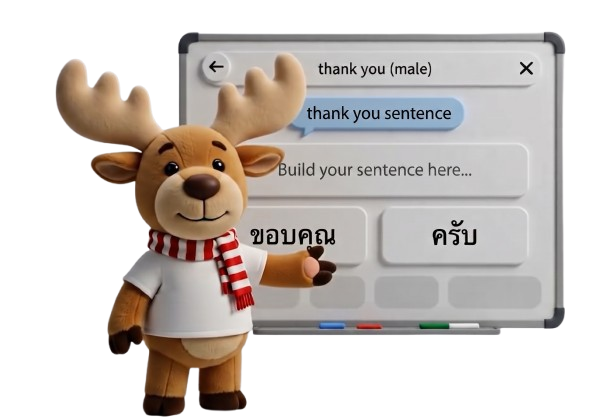
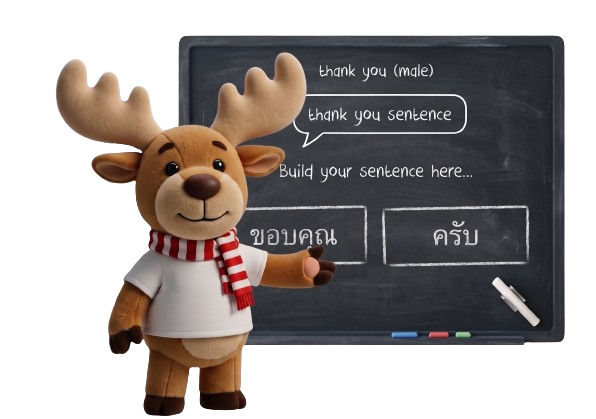
mise à jour des images de /learn niveau

diff --git a/app/components/LessonPathMap.tsx b/app/components/LessonPathMap.tsx
@@ -192,10 +192,10 @@ export function LessonPathMap({
                 <>
                   {/* Desktop Image (pointing INWARDS to avoid overflow) */}
                   <div className={`hidden lg:block absolute top-1/2 -translate-y-1/2 w-72 xl:w-80 z-0 transition-all duration-500 ease-out 
-                    ${(activeMobileLevel === levelIndex || modalLevel === levelIndex) && isAccessible ? 'opacity-100 translate-x-0' : 'opacity-0 pointer-events-none'}
+                    ${activeMobileLevel === levelIndex && isAccessible ? 'opacity-100 translate-x-0' : 'opacity-0 pointer-events-none'}
                     ${getOffset(levelIndex) < 0 ? 'left-full ml-32' : 'right-full mr-32'}
-                    ${(activeMobileLevel !== levelIndex && modalLevel !== levelIndex) && getOffset(levelIndex) < 0 ? '-translate-x-8' : ''}
-                    ${(activeMobileLevel !== levelIndex && modalLevel !== levelIndex) && getOffset(levelIndex) >= 0 ? 'translate-x-8' : ''}
+                    ${activeMobileLevel !== levelIndex && getOffset(levelIndex) < 0 ? '-translate-x-8' : ''}
+                    ${activeMobileLevel !== levelIndex && getOffset(levelIndex) >= 0 ? 'translate-x-8' : ''}
                   `}>
                     <img src={`/images/image-learn-niveau/${getImageNameForLevel(levelIndex)}`} alt="Objectif du niveau" className="w-full h-auto drop-shadow-2xl rounded-3xl" />
                   </div>
